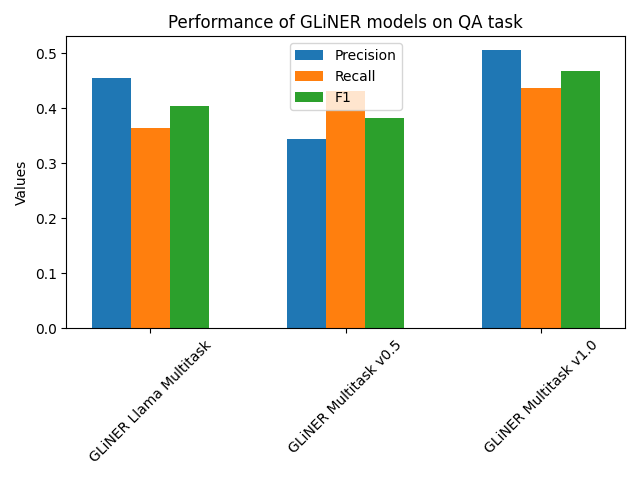
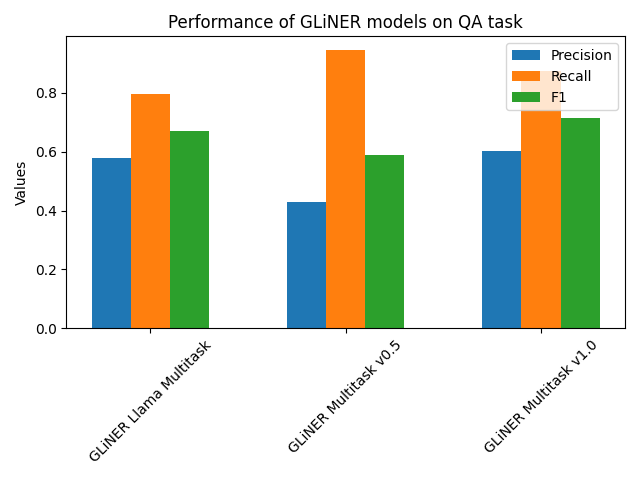
fixed qa

diff --git a/classes/qa_class/qa_squad.py b/classes/qa_class/qa_squad.py
@@ -4,15 +4,16 @@ import sys
 import os
 sys.path.append(os.path.abspath(os.path.join(os.path.dirname(__file__), '..')))
 from parent_class import AbstractEvaluator
+from tqdm import tqdm
 
 class QaGLiNEREvaluator(AbstractEvaluator):
 
     def evaluate(self, dataset, labels=None, *args, **kwargs):
 
-        context, questions, ans = self.prepare_dataset(dataset)
+        context, questions, ans, impossibles = self.prepare_dataset(dataset)
         predictions = self.__call__(context, questions)
         preds = self.process_predictions(predictions)
-        return self.compute_f_score(preds, ans)
+        return self.compute_f_score(preds, ans, impossibles)
 
     def prepare_dataset(self, dataset, *args, **kwargs):
 
@@ -22,6 +23,7 @@ class QaGLiNEREvaluator(AbstractEvaluator):
         questions = []
         answers__ = []
         answers = []
+        impossibles = []
         for dicts in dataset:
           paragraphs = dicts.get('paragraphs')
           for p in paragraphs:
@@ -31,19 +33,21 @@ class QaGLiNEREvaluator(AbstractEvaluator):
             question = [d['question'] for d in qas if 'question' in d]
             answers_ = [k['answers'] for k in qas if 'answers' in k]
             ans = [list({d['text'] for d in sublist}) for sublist in answers_]
+            is_impossible = [m['is_impossible'] for m in qas if 'is_impossible' in m]
+            impossibles.append(is_impossible)
             answers.append(ans)
             questions.append(question)
 
-        return contexts, questions, answers
-        
+        return contexts, questions, answers, impossibles
+
     def __call__(self, contexts, questions, threshold=0.5):
 
         grouped_preds = []
         labels = ['answer']
-        for context, question in zip(contexts, questions):
+        for context, question in tqdm(zip(contexts, questions), total=len(contexts), desc="Processing contexts"):
             predictions = []
             for q in question:
-              input_text = q + context
+              input_text = q + "\n" + context
               prediction = self.model.predict_entities(input_text, labels, threshold=0.5)
               predictions.append(prediction)
 
@@ -51,36 +55,40 @@ class QaGLiNEREvaluator(AbstractEvaluator):
 
         return grouped_preds
 
-    def compute_f_score(self, predicts, true_labels):
+    def compute_f_score(self, predicts, true_labels, pos):
+        true_positive = 0
+        false_positive = 0
+        false_negative = 0
 
-      true_positive = 0
-      false_positive = 0
-      false_negative = 0
+        for predict, ans, posibl in zip(predicts, true_labels, pos):
+            for pred, ans_, pos_ in zip(predict, ans, posibl):
+                if pos_ == False:
+                    if pred:
+                        matched = any(p == a for p in pred for a in ans_)
+                        if matched:
+                            true_positive += 1
+                        else:
+                            false_positive += 1
+                    else:  # Если предсказание пустое, а ответ возможен
+                        false_negative += 1
+                elif pos_ == True:
+                    if pred == []:
+                        true_positive += 1
+                    else:
+                        false_positive += 1
 
-      for predict, ans in zip(predicts, true_labels):
-          for pred, ans_ in zip(predict, ans):
-              pred_set, ans_set = set(pred), set(ans_)
-              tp = len(pred_set & ans_set)
-              true_positive += tp
-              fp = len(pred_set - ans_set)
-              false_positive += fp
-              fn = len(ans_set - pred_set)
-              false_negative += fn
 
-      precision = true_positive / (true_positive + false_positive) if (true_positive + false_positive) > 0 else 0.0
-      recall = true_positive / (true_positive + false_negative) if (true_positive + false_negative) > 0 else 0.0
-      f1_score = 2 * precision * recall / (precision + recall) if (precision + recall) > 0 else 0.0
+        precision = true_positive / (true_positive + false_positive) if (true_positive + false_positive) > 0 else 0.0
+        recall = true_positive / (true_positive + false_negative) if (true_positive + false_negative) > 0 else 0.0
+        f1_score = 2 * precision * recall / (precision + recall) if (precision + recall) > 0 else 0.0
 
-      return {
-          "true_positive": true_positive,
-          "false_positive": false_positive,
-          "false_negative": false_negative,
-          "precision": precision,
-          "recall": recall,
-          "f1_score": f1_score,
-      }
+        return {
+            "precision": precision,
+            "recall": recall,
+            "f1_score": f1_score,
+        }
 
-            
+
 
     def process_predictions(self, predictions):
 
@@ -89,20 +97,6 @@ class QaGLiNEREvaluator(AbstractEvaluator):
 
         return result
 
-with open('classes/qa_class/data.json') as f:
+with open('data.json') as f:
     dataset_json = json.load(f)
     dataset = dataset_json['data']
-
-dataset = dataset[:2]
-
-evaluator = QaGLiNEREvaluator('knowledgator/gliner-multitask-v1.0')
-results = evaluator.evaluate(dataset)
-output_file = 'evaluation_results_qa_1.json'
-with open(output_file, 'w', encoding='utf-8') as f:
-    json.dump(results, f, ensure_ascii=False, indent=4)
-
-evaluator = QaGLiNEREvaluator('knowledgator/gliner-multitask-large-v0.5')
-results = evaluator.evaluate(dataset)
-output_file = 'evaluation_results_qa_05.json'
-with open(output_file, 'w', encoding='utf-8') as f:
-    json.dump(results, f, ensure_ascii=False, indent=4)

diff --git a/classes/ner_class/make_graph.py b/classes/ner_class/make_graph.py
@@ -22,7 +22,6 @@ for filename in files:
     metrics_data['Recall'].append(data[1])
     metrics_data['F1'].append(data[2])
 
-# Убираем расширение .json из имен файлов
 file_names = [os.path.splitext(os.path.basename(file))[0] for file in files]
 
 x = range(len(file_names))

diff --git a/classes/qa_class/qa.md b/classes/qa_class/qa.md
@@ -1,5 +1,5 @@
 | Model                  |   Precision |   Recall |   F1 Score |
 |:-----------------------|------------:|---------:|-----------:|
-| GLiNER Llama Multitask |    0.454358 | 0.365113 |   0.404876 |
-| GLiNER Multitask v0.5  |    0.344204 | 0.431268 |   0.382848 |
-| GLiNER Multitask v1.0  |    0.505634 | 0.436521 |   0.468543 |
+| GLiNER Llama Multitask |    0.578296 | 0.795821 |   0.669841 |
+| GLiNER Multitask v0.5  |    0.429213 | 0.94378  |   0.590072 |
+| GLiNER Multitask v1.0  |    0.601354 | 0.874784 |   0.712745 |
